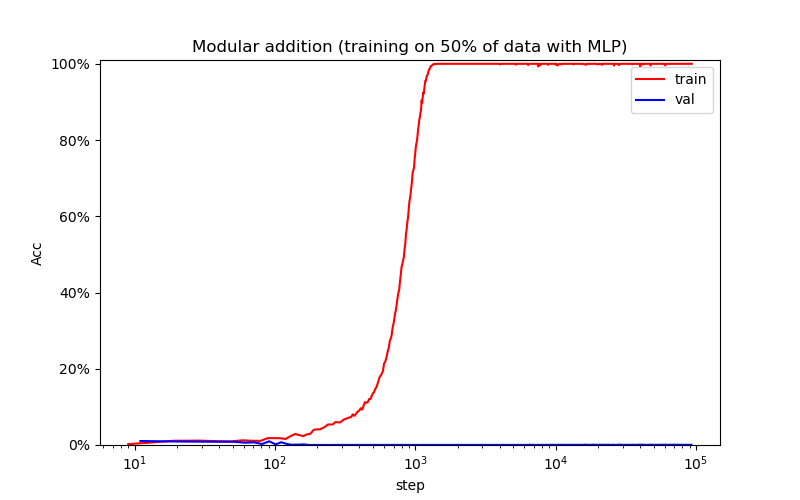
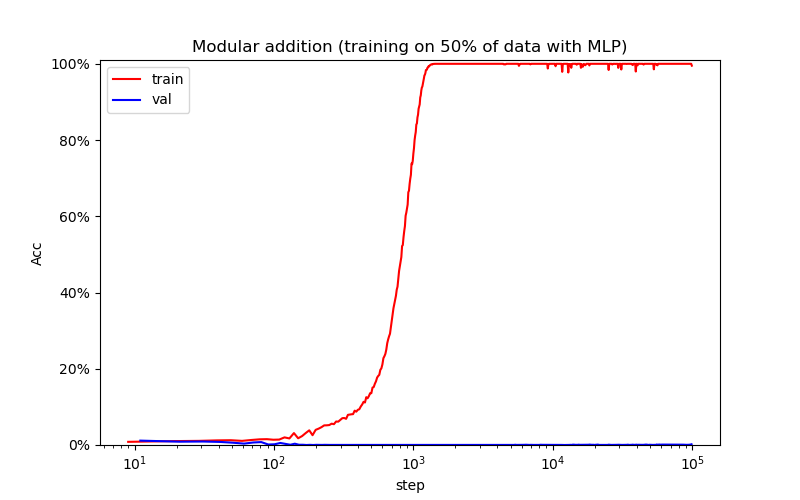
hparams

diff --git a/grok/mlp.py b/grok/mlp.py
@@ -49,20 +49,20 @@ class TrainableMLP(LightningModule):
         self.context_len = 6
         self.vocab_size = len(self.train_dataset.tokenizer)
         
-        hidden_1, hidden_2 = 512, 256
-
-        # input size: d_model * context_len, output size: vocab_size
-        self.mlp = torch.nn.Sequential(
-            torch.nn.Flatten(),
-            torch.nn.Linear(2 * self.vocab_size, hidden_1),
-            torch.nn.ReLU(),
-            torch.nn.Linear(hidden_1, hidden_2),
-            torch.nn.ReLU(),
-            torch.nn.Linear(hidden_2, self.vocab_size),
-            # torch.nn.Softmax(dim=1)
-        )
+        hidden_size = 256
+        num_layers = 3
         
-        # self.linear = Linear(hparams.d_model, self.vocab_size, bias=False, weight_noise=hparams.weight_noise)
+        layers = []
+        current_size = 2 * self.vocab_size
+        for _ in range(num_layers):
+            layers.append(nn.Linear(current_size, hidden_size))
+            layers.append(nn.ReLU())
+            layers.append(nn.Dropout(hparams.dropout))
+            current_size = hidden_size
+        
+        layers.append(nn.Linear(hidden_size, self.vocab_size))
+        
+        self.mlp = nn.Sequential(*layers)
         
         self.embedding = Embedding(
             self.vocab_size, 
@@ -101,7 +101,7 @@ class TrainableMLP(LightningModule):
         parser.add_argument("--n_layers", type=int, default=2)
         parser.add_argument("--n_heads", type=int, default=4)
         parser.add_argument("--d_model", type=int, default=128)
-        parser.add_argument("--dropout", type=float, default=0.0)
+        parser.add_argument("--dropout", type=float, default=0.1)
         parser.add_argument("--weight_noise", type=float, default=0.0)
         parser.add_argument("--non_linearity", type=str, default="relu")
         parser.add_argument("--max_context_len", type=int, default=50)
@@ -120,7 +120,7 @@ class TrainableMLP(LightningModule):
         parser.set_defaults(anneal_lr=False)
 
         parser.add_argument("--max_lr", type=float, default=1e-3)
-        parser.add_argument("--weight_decay", type=float, default=0)
+        parser.add_argument("--weight_decay", type=float, default=1)
         parser.add_argument("--weight_decay_kind", type=str, default="to_zero")
         parser.add_argument("--noise_factor", type=float, default=0)
 
@@ -250,6 +250,11 @@ class TrainableMLP(LightningModule):
         """
         # print("enter func: configure_optimizers")
         
+        # optimizer = torch.optim.Adam(self.parameters(), 
+        #                              lr=1, 
+        #                              weight_decay=self.hparams.weight_decay,
+        #                              )
+        
         optimizer = CustomAdamW(
             self.parameters(),
             betas=(0.9, 0.98),
@@ -371,6 +376,9 @@ class TrainableMLP(LightningModule):
         else:
             coeff = float(batch["target"].shape[0]) / len(self.val_dataset)
         loss = F.cross_entropy(y_hat_rhs, y_rhs, reduction=reduction)
+        
+        if loss.item() == 0:
+            print(f"y_hat = {y_hat}")
 
         with torch.no_grad():
             acc = self._accuracy(y_hat_rhs, y_rhs)
@@ -592,6 +600,9 @@ class TrainableMLP(LightningModule):
                 
                 perplexity = torch.exp(loss)
                 accuracy = torch.stack([x["partial_train_accuracy"] for x in outputs]).sum()
+                
+            print(f"train acc = {accuracy}")
+            print(f"loss = {loss}")
 
             # Learning rate
             first_lr = outputs[0]["learning_rate"]
@@ -789,8 +800,7 @@ class TrainableMLP(LightningModule):
 
     def forward(self, x) -> Any:
         """Passes all arguments directly to MLP.forward()"""
-        # x = self.embedding(x)
-        
+        x = x.view(x.size(0), -1)
         output = self.mlp(x)
         
         return output

diff --git a/grok/lstm.py b/grok/lstm.py
@@ -114,7 +114,7 @@ class TrainableLSTM(LightningModule):
         parser.set_defaults(anneal_lr=False)
 
         parser.add_argument("--max_lr", type=float, default=1e-3)
-        parser.add_argument("--weight_decay", type=float, default=0)
+        parser.add_argument("--weight_decay", type=float, default=0.01)
         parser.add_argument("--weight_decay_kind", type=str, default="to_zero")
         parser.add_argument("--noise_factor", type=float, default=0)
 
@@ -243,6 +243,11 @@ class TrainableLSTM(LightningModule):
         :returns: optimizers and schedulers.
         """
         # print("enter func: configure_optimizers")
+        
+        # optimizer = torch.optim.Adam(self.parameters(), 
+        #                              lr=1e-3, 
+        #                              weight_decay=self.hparams.weight_decay,
+        #                              )
         
         optimizer = CustomAdamW(
             self.parameters(),

diff --git a/grok/transformer.py b/grok/transformer.py
@@ -471,7 +471,7 @@ class TrainableTransformer(LightningModule):
         parser.set_defaults(anneal_lr=False)
 
         parser.add_argument("--max_lr", type=float, default=1e-3)
-        parser.add_argument("--weight_decay", type=float, default=0)
+        parser.add_argument("--weight_decay", type=float, default=0.01)
         parser.add_argument("--weight_decay_kind", type=str, default="to_zero")
         parser.add_argument("--noise_factor", type=float, default=0)
 
@@ -605,7 +605,7 @@ class TrainableTransformer(LightningModule):
             self.parameters(),
             betas=(0.9, 0.98),
             eps=1e-8,
-            lr=1,
+            lr=1e-3,
             weight_decay=self.hparams.weight_decay,
             noise_factor=self.hparams.noise_factor,
             weight_decay_form=self.hparams.weight_decay_kind,
